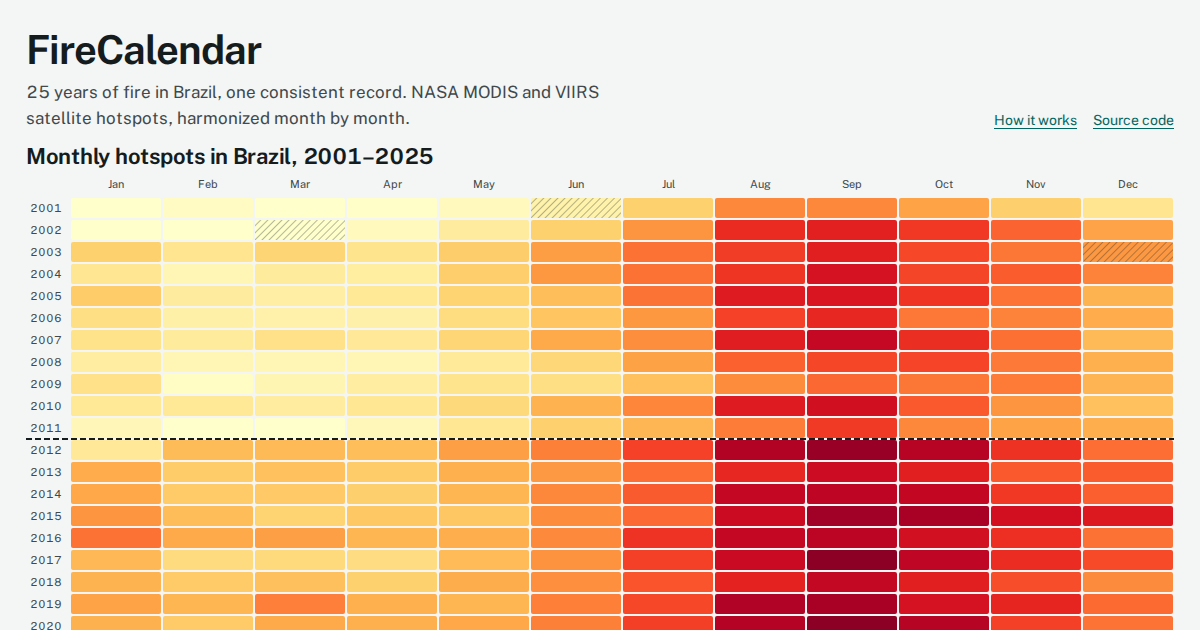
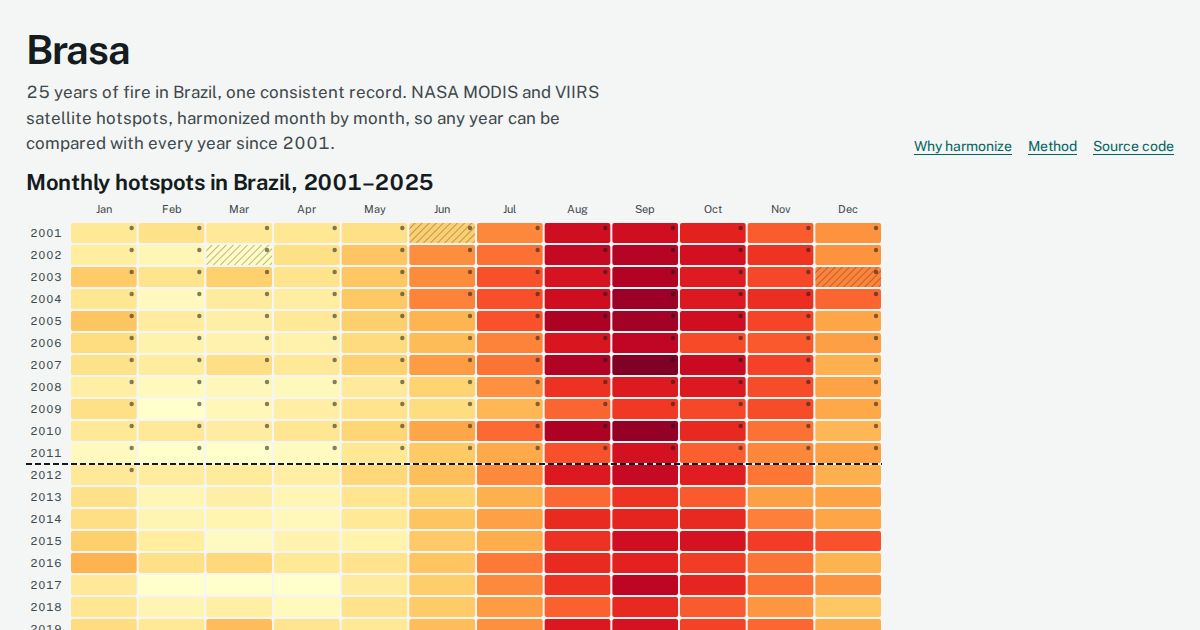
Rename the project to Brasa and tighten the sensor-change wording
The 2012 jump comes from the joined record switching to VIIRS while
MODIS kept flying, not from NASA replacing a satellite. The method
section now uses neutral voice.

diff --git a/web/index.html b/web/index.html
@@ -3,9 +3,9 @@
   <head>
     <meta charset="utf-8" />
     <meta name="viewport" content="width=device-width, initial-scale=1" />
-    <title>FireCalendar: 25 years of fire in Brazil</title>
+    <title>Brasa: 25 years of fire in Brazil</title>
     <meta name="description" content="A month-by-month calendar of active fires in Brazil from 2001 to 2025, built by harmonizing NASA MODIS and VIIRS satellite hotspots into one consistent record." />
-    <meta property="og:title" content="FireCalendar: 25 years of fire in Brazil" />
+    <meta property="og:title" content="Brasa: 25 years of fire in Brazil" />
     <meta property="og:description" content="NASA MODIS and VIIRS fire hotspots harmonized into one consistent monthly record for every Brazilian state and biome." />
     <!-- og:image must be an absolute URL: set it to <SITE_URL>/img/og.png after the first deploy -->
     <meta property="og:image" content="./img/og.png" />
@@ -22,7 +22,7 @@
     <header class="masthead">
       <div class="wrap masthead-inner">
         <div>
-          <h1>FireCalendar</h1>
+          <h1>Brasa</h1>
           <p class="lede">25 years of fire in Brazil, one consistent record. NASA MODIS and VIIRS satellite hotspots, harmonized month by month, so any year can be compared with every year since 2001.</p>
         </div>
         <nav aria-label="Page">
@@ -165,8 +165,8 @@
         <ol class="prose steps">
           <li><strong>Clean.</strong> Keep only vegetation fires (no volcanoes, industrial heat sources or offshore flares) with nominal or high confidence, and drop duplicates.</li>
           <li><strong>Assign.</strong> Place each of <span id="n-detections">the</span> detections in its state, biome and the Campinas Metro Area using IBGE boundaries.</li>
-          <li><strong>Fill the Terra-only years.</strong> Until mid-2002 only Terra flew. We scale those months by the Terra-to-(Terra + Aqua) ratio measured in 2003–2011, separately for each calendar month and region.</li>
-          <li><strong>Calibrate.</strong> Both sensors flew together from 2012 to 2025 (<span id="n-calib">—</span> clean months). For every region we fit a model that converts MODIS counts into VIIRS-equivalent counts, then apply it backwards to 2001–2011 with a 90% prediction interval. We tested five models, from one ratio for all of Brazil to a regression per region, on years each model had not seen, and kept the most accurate. It has three parameters per region, so it is easy to check and to rerun.</li>
+          <li><strong>Fill the Terra-only years.</strong> Until mid-2002 only Terra flew. Those months are scaled by the Terra-to-(Terra + Aqua) ratio measured in 2003–2011, separately for each calendar month and region.</li>
+          <li><strong>Calibrate.</strong> Both sensors flew together from 2012 to 2025 (<span id="n-calib">—</span> clean months). For every region, a model that converts MODIS counts into VIIRS-equivalent counts is fitted and applied backwards to 2001–2011 with a 90% prediction interval. Five models were tested, from one ratio for all of Brazil to a regression per region, on years each model had not seen, and the most accurate was kept. It has three parameters per region, so it is easy to check and to rerun.</li>
           <li><strong>Check.</strong> Models are trained on 2012–2018 and tested on 2019–2025, and the other way round. Months with reduced satellite coverage are left out of training and flagged in the calendar; when VIIRS has a gap, the calibrated MODIS value fills it.</li>
         </ol>
 

diff --git a/web/src/main.ts b/web/src/main.ts
@@ -334,7 +334,7 @@ function downloadCSV(): void {
   const blob = new Blob([[header, ...lines].join("\n") + "\n"], { type: "text/csv;charset=utf-8" });
   const a = document.createElement("a");
   a.href = URL.createObjectURL(blob);
-  a.download = `firecalendar_${current.region}_${state.from}-${state.to}.csv`;
+  a.download = `brasa_${current.region}_${state.from}-${state.to}.csv`;
   a.click();
   setTimeout(() => URL.revokeObjectURL(a.href), 1000);
 }
@@ -410,7 +410,7 @@ async function init(): Promise<void> {
     await update({});
     renderMethod();
   } catch (err) {
-    showError(`FireCalendar could not load its data. Reload the page to try again. (${(err as Error).message})`);
+    showError(`Brasa could not load its data. Reload the page to try again. (${(err as Error).message})`);
     return;
   }
   // Secondary data: map boundaries, every region for map totals, validation points.

diff --git a/scripts/fetch_nrt.py b/scripts/fetch_nrt.py
@@ -32,7 +32,7 @@ CHUNKS = RAW / "api_chunks"
 API = "https://firms.modaps.eosdis.nasa.gov/api"
 BBOX = "-74,-34,-34,6"  # Brazil; the pipeline clips to IBGE state boundaries afterwards
 DAY_RANGE = 5           # API maximum
-UA = {"User-Agent": "firecalendar-pipeline/0.1"}
+UA = {"User-Agent": "brasa-pipeline/0.1"}
 
 PRODUCTS = {
     "modis": ("MODIS_SP", "MODIS_NRT"),

diff --git a/scripts/download.py b/scripts/download.py
@@ -12,7 +12,7 @@ from pathlib import Path
 
 BASE = "https://firms.modaps.eosdis.nasa.gov/data/country"
 OUT = Path(__file__).resolve().parent.parent / "data" / "raw" / "firms"
-UA = {"User-Agent": "firecalendar-pipeline/0.1"}
+UA = {"User-Agent": "brasa-pipeline/0.1"}
 
 
 def jobs() -> list[tuple[str, int]]:

diff --git a/README.md b/README.md
@@ -1,8 +1,8 @@
-# FireCalendar
+# Brasa
 
-**25 years of fire in Brazil, one consistent record.**
+**25 years of fire in Brazil, one consistent record.** *Brasa* is Portuguese for *ember*.
 
-In January 2012 Brazil appeared to start burning three times as much as before. It didn't. NASA had started counting fires with a sharper satellite instrument. FireCalendar removes that artefact. It calibrates the old MODIS record (since 2000) against VIIRS (since 2012), using the 14 years in which both flew together. The result is one month-by-month fire calendar, from 2001 to 2025, for Brazil, its 6 biomes, its 27 states and the Campinas Metro Area. On a consistent record, this year can be compared with every year since 2001, months before the fire season peaks.
+In January 2012 Brazil appeared to start burning three times as much as before. It didn't. The record had switched to a sharper satellite instrument, while the old one kept flying. Brasa removes that artefact. It calibrates the old MODIS record (since 2000) against VIIRS (since 2012), using the 14 years in which both flew together. The result is one month-by-month fire calendar, from 2001 to 2025, for Brazil, its 6 biomes, its 27 states and the Campinas Metro Area. On a consistent record, this year can be compared with every year since 2001, months before the fire season peaks.
 
 **[Open the calendar](<SITE_URL>)** | [30-second demo](<VIDEO_URL>) | [Method](docs/METHODOLOGY.md) | [Design decisions](docs/DECISIONS.md) | [Download all data (CSV)](web/public/data/all_regions_monthly.csv)
 
@@ -13,7 +13,7 @@ Built in Campinas for the NASA Space Apps Challenge 2026, for the challenge *Har
   <img alt="Annual hotspots in Brazil, 2001 to 2025. The naive splice (red, dashed) is flat around 0.5 million per year until 2011, then jumps to 1.5 million in 2012. The harmonized record (green, with a shaded 90% band before 2012) stays at the same level across 2012. MODIS alone (grey) shows no jump." src="docs/img/before-after-light.png">
 </picture>
 
-<sub>Annual hotspots in Brazil. Red: the two records joined as they are. Green: FireCalendar, on a single VIIRS-equivalent scale, with a 90% band where values are estimated. Grey: MODIS alone, which never changed sensor.</sub>
+<sub>Annual hotspots in Brazil. Red: the two records joined as they are. Green: Brasa, on a single VIIRS-equivalent scale, with a 90% band where values are estimated. Grey: MODIS alone, which never changed sensor.</sub>
 
 ---
 
@@ -23,7 +23,7 @@ The two instruments see the same fires differently. VIIRS has 375 m pixels and M
 
 The two calendars below show the same months and use the same colour scale.
 
-| Naive splice: MODIS until 2011, then VIIRS | FireCalendar: harmonized |
+| Naive splice: MODIS until 2011, then VIIRS | Brasa: harmonized |
 |---|---|
 | <picture><source media="(prefers-color-scheme: dark)" srcset="docs/img/calendar-naive-dark.png"><img alt="Calendar heatmap with pale rows until 2011 and dark red rows from 2012 onwards" src="docs/img/calendar-naive-light.png"></picture> | <picture><source media="(prefers-color-scheme: dark)" srcset="docs/img/calendar-harmonized-dark.png"><img alt="Calendar heatmap with a consistent intensity across 2012" src="docs/img/calendar-harmonized-light.png"></picture> |
 
@@ -34,7 +34,7 @@ The trend tests on Brazil's annual totals give the same verdict:
 | Brazil, 2001–2025 | Step from 2009–11 to 2012–14 | Change point (Pettitt) | Trend (Mann-Kendall + Sen) |
 |---|---|---|---|
 | Naive splice | **3.19×** | 2012, p < 0.001 | **+5.6% per year**, p < 0.001 |
-| FireCalendar, harmonized | **0.84×** | none at 2012 | −2.1% per year, p = 0.038 |
+| Brasa, harmonized | **0.84×** | none at 2012 | −2.1% per year, p = 0.038 |
 | MODIS alone (reference, no sensor change) | 0.84× | none at 2012 | −1.6% per year, p = 0.18 |
 
 The harmonized step equals the MODIS-only step to two decimal places. The rise in the naive record came from the sensor change, not from more fires.
@@ -69,7 +69,7 @@ All counts below are harmonized hotspots (VIIRS-equivalent) for 2001–2025. The
 
 ## Early warning: how this year compares
 
-Fire crews and budgets are planned around the usual season. FireCalendar adds up a year's hotspots month by month and draws every earlier year behind it. A year that runs ahead of all of them is a warning months before the peak. This comparison only works on a harmonized record: on the naive splice, every year since 2012 looks like a record year.
+Fire crews and budgets are planned around the usual season. Brasa adds up a year's hotspots month by month and draws every earlier year behind it. A year that runs ahead of all of them is a warning months before the peak. This comparison only works on a harmonized record: on the naive splice, every year since 2012 looks like a record year.
 
 <picture>
   <source media="(prefers-color-scheme: dark)" srcset="docs/img/season-pantanal-2020-dark.png">
@@ -247,4 +247,4 @@ All data was accessed on 14 November 2026.
 
 The site uses the Public Sans typeface (SIL Open Font License) and the Space Apps logo as provided by the organizers. No NASA insignia is used.
 
-The code is released under the MIT licence, and the FIRMS data is NASA open data. FireCalendar is not an official NASA product.
+The code is released under the MIT licence, and the FIRMS data is NASA open data. Brasa is not an official NASA product.
